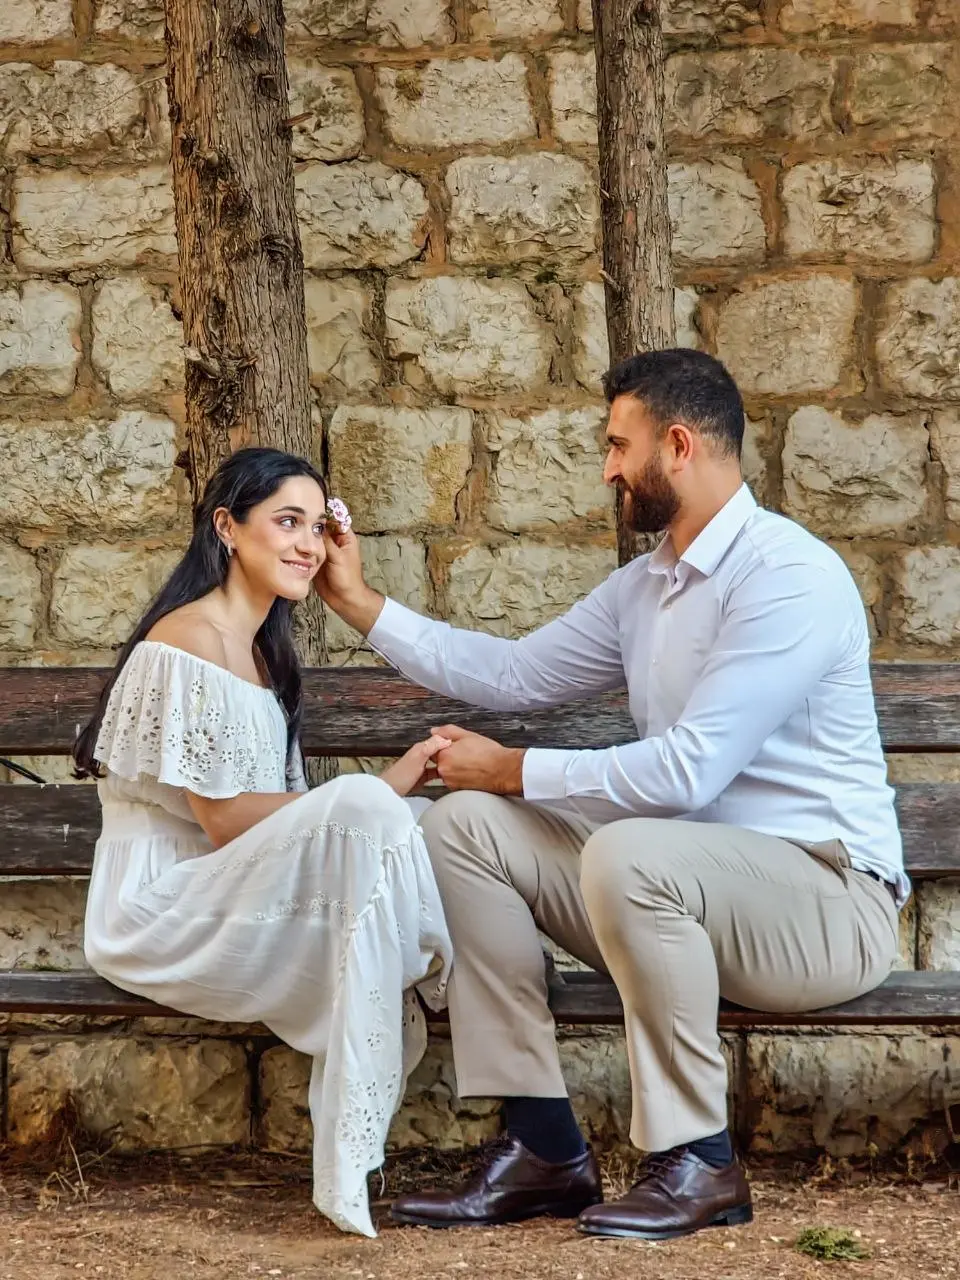
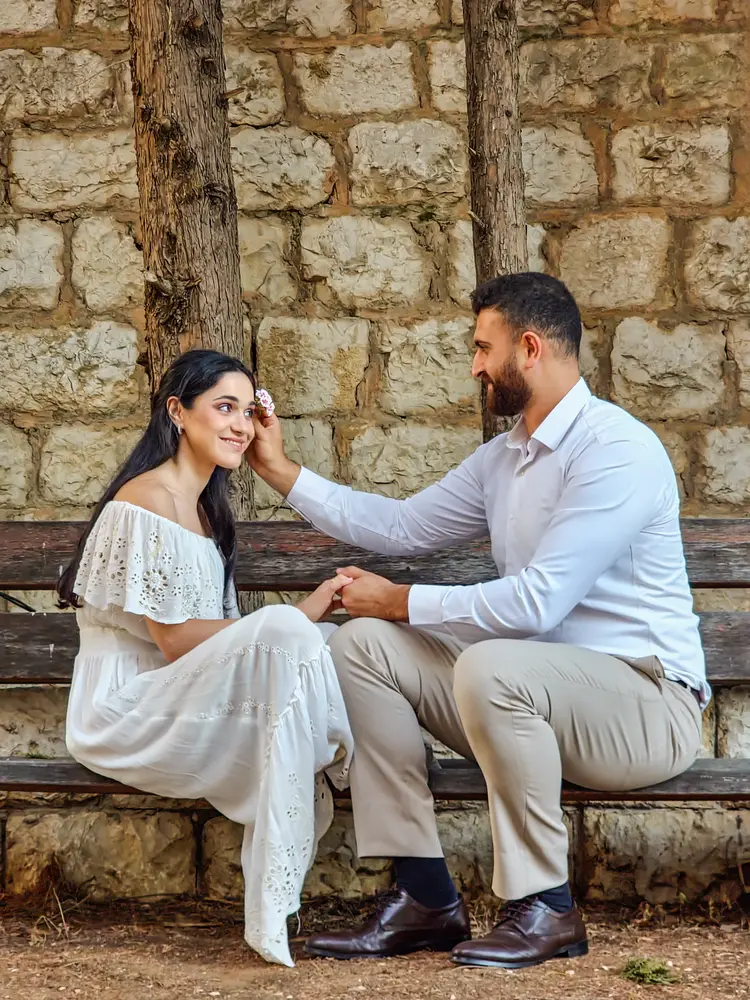
new fixes

diff --git a/src/components/WeddingDetails.tsx b/src/components/WeddingDetails.tsx
@@ -17,7 +17,7 @@ import footerBg      from "@/assets/couple-sunset.webp";
 import coupleWalking from "@/assets/couple-walking.webp";
 import coupleBench   from "@/assets/couple-bench.webp";
 import coupleHands   from "@/assets/couple-hands.webp";
-import coupleVenue   from "@/assets/couple-venue2.webp";
+import coupleVenue   from "@/assets/couple-venue.webp";
 
 /*
  * ─── EVENT DETAILS ────────────────────────────────────────────────────────────
